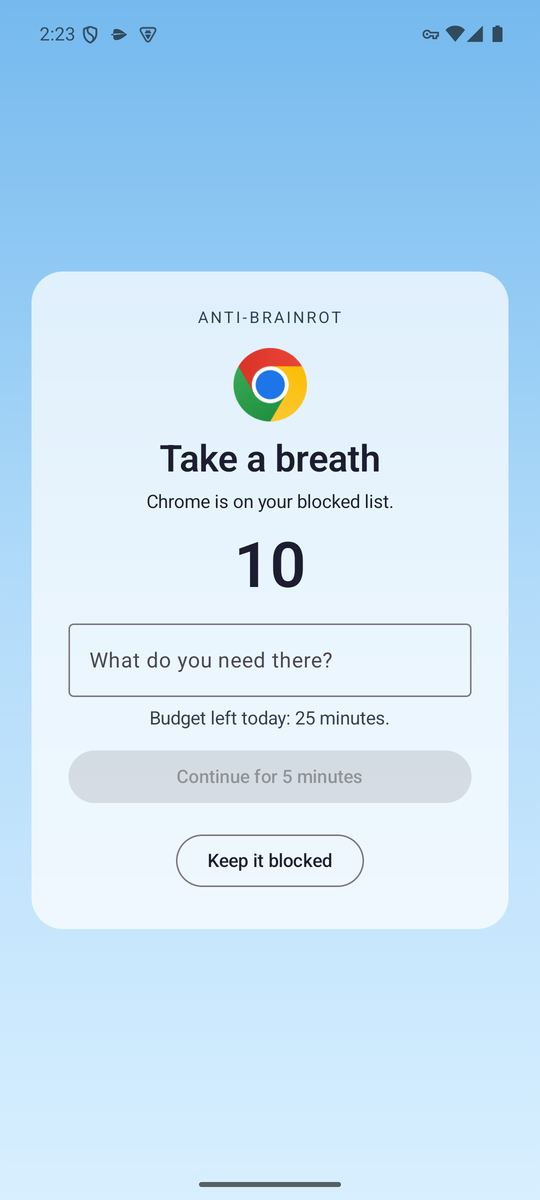
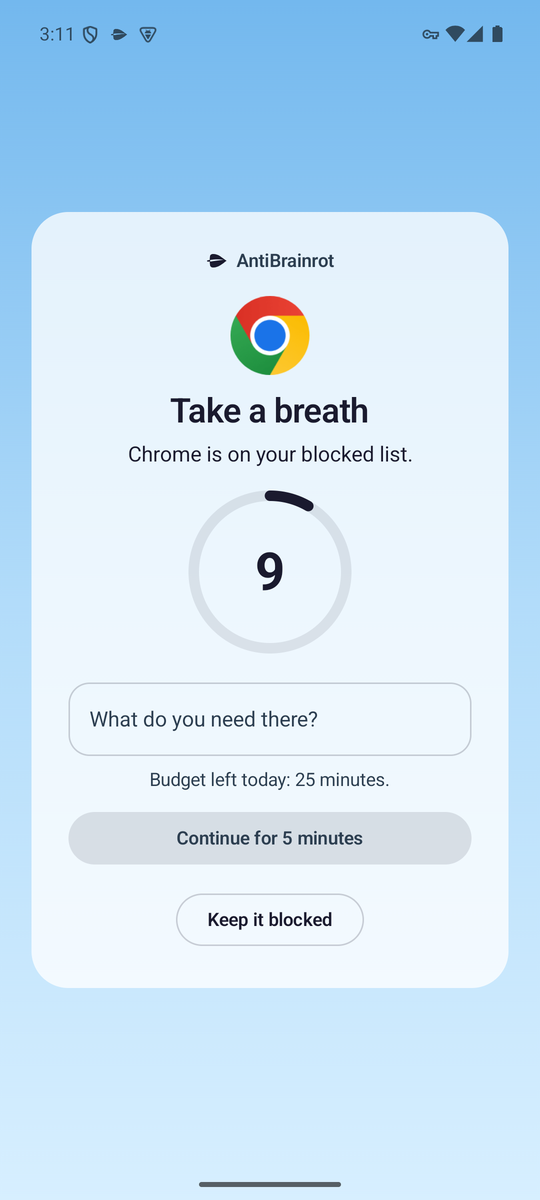
docs: Progress tab, AntiBrainrot name, 1.3.0 Android results, new screenshots

diff --git a/site/index.html b/site/index.html
@@ -109,7 +109,7 @@
         </li>
         <li>
           <h3>Android app</h3>
-          <p>The same rules on the phone: Shorts and Reels closed inside their apps, distracting apps behind a pause and a timed pass, adult and distracting sites filtered at the DNS level, locked hours and strict mode. An APK on every release.</p>
+          <p>The same rules on the phone: Shorts and Reels closed inside their apps, distracting apps behind a pause and a timed pass, adult and distracting sites filtered at the DNS level, locked hours, strict mode, and a Progress tab with ninety days of counters and charts. An APK on every release.</p>
         </li>
         <li>
           <h3>More YouTube options</h3>
@@ -203,19 +203,19 @@
 
     <section class="wrap shots" aria-labelledby="android-heading">
       <h2 id="android-heading">On the phone</h2>
-      <p>The Android app is the same idea with the phone's own tools. An accessibility service recognises the Shorts, Reels and Spotlight players by their view ids and presses Back, and puts a block screen over the apps on your list. A DNS-only VPN answers lookups for adult and distracting hosts with "no such name" and forwards everything else to the network's resolver, so no traffic leaves the phone through the app. The friction timer, locked hours, Lock for N hours and the loosen-only-while-off rule are the same as in the extension. Strict mode closes the Settings pages that could disable the app while the filter is on.</p>
+      <p>The Android app is the same idea with the phone's own tools. An accessibility service recognises the Shorts, Reels and Spotlight players by their view ids and presses Back, and puts a block screen over the apps on your list. A DNS-only VPN answers lookups for adult and distracting hosts with "no such name" and forwards everything else to the network's resolver, so no traffic leaves the phone through the app. The friction timer, locked hours, Lock for N hours and the loosen-only-while-off rule are the same as in the extension. Strict mode closes the Settings pages that could disable the app while the filter is on. The Progress tab keeps ninety days of counters: how long the filter was on, block screens, feeds closed and passes, as totals over 7, 30 or 90 days, bars per day, a streak, and the apps that needed the most block screens.</p>
       <div class="phones">
         <figure>
-          <img src="assets/screenshots/android-home.png" alt="The Home tab of the Android app: a card that reads Filter is on, Locked until 17:00, a Lock for row set to 2 hours, a disabled Locked button, and today's counters" width="540" height="1200" loading="lazy">
-          <figcaption>Home, during locked hours.</figcaption>
+          <img src="assets/screenshots/android-home.png" alt="The Home tab of the Android app: a blue card that reads Filter is on with a power ring, a Lock for row and a Turn off button, then today's three numbers and the locked hours card" width="540" height="1200" loading="lazy">
+          <figcaption>Home, with the filter on.</figcaption>
         </figure>
         <figure>
-          <img src="assets/screenshots/android-block.png" alt="The block screen over Chrome: Take a breath, Chrome is on your blocked list, a ten second countdown, an intention field, the budget left today and a Continue for 5 minutes button next to Keep it blocked" width="540" height="1200" loading="lazy">
+          <img src="assets/screenshots/android-progress.png" alt="The Progress tab: a 7, 30, 90 day selector, four tiles with the filter-on time, block screens, feeds closed and passes, and a bar chart of hours per day" width="540" height="1200" loading="lazy">
+          <figcaption>Progress over the last 7 days.</figcaption>
+        </figure>
+        <figure>
+          <img src="assets/screenshots/android-block.png" alt="The block screen over Chrome: Take a breath, Chrome is on your blocked list, a countdown ring, an intention field, the budget left today and a Continue for 5 minutes button next to Keep it blocked" width="540" height="1200" loading="lazy">
           <figcaption>A blocked app in pause mode.</figcaption>
-        </figure>
-        <figure>
-          <img src="assets/screenshots/android-apps.png" alt="The Apps tab: YouTube Shorts marked always on, switches for Instagram Reels, Facebook Reels and Snapchat Spotlight, and the blocked apps settings for mode, pause, pass length and daily budget" width="540" height="1200" loading="lazy">
-          <figcaption>Feeds and blocked apps.</figcaption>
         </figure>
       </div>
       <ul class="limits">

diff --git a/docs/ANDROID.md b/docs/ANDROID.md
@@ -1,12 +1,13 @@
-# Anti-Brainrot for Android
+# AntiBrainrot for Android
 
-The Android app brings the extension's rules to the phone: YouTube Shorts and
-the other short-video feeds are closed inside their apps, distracting apps sit
-behind a pause and a timed pass, adult and distracting sites are filtered at
-the DNS level, and the whole thing runs under the same friction timer, the
-same "tighten any time, loosen only while off" rule, the same locked hours and
-ad hoc locks. It is meant to replace AppBlock for one person's use and is not
-on Google Play; the APK is attached to every GitHub release.
+The Android app, called AntiBrainrot on the phone, brings the extension's
+rules to the phone: YouTube Shorts and the other short-video feeds are closed
+inside their apps, distracting apps sit behind a pause and a timed pass, adult
+and distracting sites are filtered at the DNS level, and the whole thing runs
+under the same friction timer, the same "tighten any time, loosen only while
+off" rule, the same locked hours and ad hoc locks. A Progress tab keeps ninety
+days of counters. It is meant to replace AppBlock for one person's use and is
+not on Google Play; the APK is attached to every GitHub release.
 
 ## What it does
 
@@ -19,12 +20,23 @@ on Google Play; the APK is attached to every GitHub release.
 | Friction timer | Turning the filter off runs the countdown on the Home screen; leaving the screen cancels it |
 | Locked hours, Lock for N hours | The service checks every 15 seconds and on every app switch; during a lock the switch is forced on and cannot be turned off |
 | Strict mode | While the filter is on, the Settings pages that could disable the app (its App info page, the accessibility page) are closed as they open |
-| Stats | Today's blocks, passes and closed feeds |
+| Progress | Ninety days of daily counters: time the filter was on while the service ran, block screens (per app too), feeds closed, passes and their minutes. Shown as totals over 7, 30 or 90 days, bar charts per day, a streak of days with the filter on for at least an hour, and the most blocked apps |
 
 What it does not do: educational-only mode (the YouTube app exposes no
 category), path-level website rules (a DNS filter sees hosts only), location
 or Wi-Fi conditions, per-app time metering (passes are charged up front
 instead), widgets.
+
+## Screens
+
+- Home: the filter card (state, unlock delay, Lock for N hours, the friction
+  timer with its ring), today's three numbers, locked hours, and the note
+  about what is always on.
+- Progress: the history, see the table above. Empty until the filter has run.
+- Apps: the short-video feed switches, blocked app settings, and the list of
+  installed apps.
+- Sites: the DNS filter, presets, own hosts and allow list.
+- More: the reason line, strict mode, theme, permissions, about.
 
 ## Compared with AppBlock
 
@@ -74,6 +86,8 @@ real app refuses to run. Release builds are signed in CI from the
 - Browsers with their own DNS over HTTPS setting bypass a local DNS filter,
   and so does Private DNS in the system settings; the Sites tab warns when
   Private DNS is on.
+- Filter-on time is counted by the accessibility service in 15 second ticks
+  and written once a minute, so it only covers time the service was running.
 - Strict mode leaves any Settings page that shows the app's name, which
   includes the accessibility service list itself while the filter is on.
   Manage other services while the filter is off.

diff --git a/docs/E2E.md b/docs/E2E.md
@@ -127,3 +127,32 @@ overflowed the card; they wrap now. The More tab could read "1 passes used".
 Not verifiable on this host: the real YouTube, Instagram, Facebook and
 Snapchat apps (no Play sign-in on the AVD); notification hiding from a real
 blocked app; Private DNS interaction on a physical network.
+
+## 2026-09-20, Android 15 emulator (Pixel AVD, API 35), version 1.3.0
+
+Same setup as the 1.2.0 run. The uiautomator dump used by `emu.sh tap`
+waits for an idle screen, so during the countdown (the ring animates every
+second) taps went by coordinates instead.
+
+| Check | Result |
+| --- | --- |
+| Name and header | Launcher label, header wordmark, block screen and Setup read AntiBrainrot; the status pill reads On, Off or Locked with the lock icon |
+| Home, filter on | Blue hero card with the power ring, Lock for row, Turn off; Locked state shows the lock in the ring and a disabled Locked button |
+| Home, filter off | Surface card, empty ring, delay picker, Turn on |
+| Turn off with a 5 minute delay | Ring counts down with the seconds inside it and 4:57 below; off after 300 s |
+| Keep it on | Countdown cancelled, filter still on 34 s later (30 s delay) |
+| Turn off with a 30 s delay | Off after the countdown; Turn on afterwards leaves the delay at 30 s |
+| Today strip | Reads 1m filter on, 2 blocks, 1 feed closed after one block screen and one closed Short; opens Progress |
+| Progress, empty | Nothing yet card, zero tiles, empty bars with weekday labels |
+| Progress, seeded 60 days (debug button) | 7 day tiles 24h 19m, 24, 31, 6 passes 30 min; 30 day tiles 166h 7m, 154, 155, 41 passes 205 min; bars grow in on range change; date labels every 7 days at 30 and every 30 at 90; stacked blocks and feeds chart with legend; streak 2 with best 28 and seven dots; most blocked apps with icons and bars |
+| History on disk | Today's record holds blocks, feedsClosed, focusSeconds (60 after one minute of the filter on) and byApp counts |
+| Chrome block | Card slides in, icon pops, ring fills from 9 to 0, Continue enabled at Ready |
+| Shorts stand-in | Closed within a second, feeds closed counter incremented |
+| Strict mode | App info page left within a second |
+| Setup | Green check marks for granted rows; Notifications row reads the real permission state (was always Open on a fresh install) |
+| Apps tab | App list loads after the settings cards with a progress bar, rows reorder with animation when one is checked |
+| Locked hours card on Home | Chips and time buttons expand when the switch is on; Sun chip on the second row |
+| Unit tests | 24 pass, including history recording, pruning, streaks, top apps and the Stats migration |
+
+Not verifiable on this host: the animations' smoothness at 60 Hz (the
+emulator renders with SwiftShader), dark theme on a real display.

diff --git a/README.md b/README.md
@@ -77,21 +77,22 @@ Website: https://danieltyukov.github.io/anti-brainrot/
 
 ## Android app
 
-The same rules on the phone: Shorts, Reels and Spotlight closed inside their
-apps, distracting apps behind a pause and a timed pass, adult and distracting
-sites filtered at the DNS level, the friction timer, locked hours, Lock for N
-hours, strict mode. Download `anti-brainrot-<version>.apk` from the
+The same rules on the phone, as AntiBrainrot: Shorts, Reels and Spotlight
+closed inside their apps, distracting apps behind a pause and a timed pass,
+adult and distracting sites filtered at the DNS level, the friction timer,
+locked hours, Lock for N hours, strict mode, and a Progress tab with ninety
+days of counters, charts and a streak. Download `anti-brainrot-<version>.apk` from the
 [latest release](https://github.com/danieltyukov/anti-brainrot/releases/latest),
 open it on the phone, allow installing from that source, then follow the
 Setup screen. Android 8 or newer. Details, permissions and limits in
 [docs/ANDROID.md](docs/ANDROID.md).
 
 <p align="center">
-  <img src="site/assets/screenshots/android-home.png" alt="The Home tab of the Android app during locked hours" width="240">
+  <img src="site/assets/screenshots/android-home.png" alt="The Home tab of the Android app with the filter on" width="240">
   &nbsp;
-  <img src="site/assets/screenshots/android-block.png" alt="The block screen over Chrome in pause mode" width="240">
+  <img src="site/assets/screenshots/android-progress.png" alt="The Progress tab with totals, a bar chart and a streak" width="240">
   &nbsp;
-  <img src="site/assets/screenshots/android-apps.png" alt="The Apps tab with feed switches and blocked app settings" width="240">
+  <img src="site/assets/screenshots/android-block.png" alt="The block screen over Chrome in pause mode with a countdown ring" width="240">
 </p>
 
 ## Install the extension

diff --git a/docs/PLAN.md b/docs/PLAN.md
@@ -368,3 +368,11 @@ friend-password unlock mode, allow-only mode during locked hours.
 - [x] Docs and site.
 
 Not done: educational-only mode in the YouTube app (no category data), location and Wi-Fi schedules, per-app time metering, allow-only mode.
+
+## Task 13: Android progress tracker and redesign (done 2026-09-20, v1.3.0)
+
+- [x] Day history in `LocalState` (ninety days: filter-on seconds, block screens per app, feeds closed, passes and minutes), every counter routed through `Passes.record`, old `Stats` migrated on decode, `Progress` aggregation with JVM tests.
+- [x] Filter-on time accumulated by the accessibility service ticker and flushed once a minute.
+- [x] Progress tab: 7, 30, 90 day ranges, summary tiles, bar charts (filter-on hours; block screens stacked with feeds closed), streak with the last seven days, most blocked apps. Debug builds can seed sample history.
+- [x] Name shown as AntiBrainrot; wordmark header with the leaf mark and a status pill; hero filter card that cross-fades between its off and on looks; countdown rings on Home and the block screen; staggered card entrances; animated tab changes, counters and permission states; typography and shapes. Locked hours moved to a Home card; the app list loads off the main thread.
+- [x] Emulator run of every screen and the regression set (docs/E2E.md), docs and site.

diff --git a/CHANGELOG.md b/CHANGELOG.md
@@ -5,6 +5,23 @@ Keep a Changelog and the project uses semantic versioning.
 
 ## [Unreleased]
 
+## [1.3.0] - 2026-09-20
+
+### Added
+- Android: a Progress tab. The app keeps ninety days of daily counters (time
+  the filter was on, block screens, feeds closed, passes and their minutes,
+  block screens per app) and shows them as totals, bar charts over 7, 30 or
+  90 days, a streak of days with the filter on for at least an hour, and the
+  most blocked apps. Home shows today's three numbers and opens Progress.
+
+### Changed
+- Android: the app is called AntiBrainrot. New header with the leaf mark and
+  a status pill, a hero card for the filter that cross-fades between its off
+  and on looks, a countdown ring for the friction timer and on the block
+  screen, staggered card entrances, animated tab changes and counters,
+  refined typography and corner radii. Locked hours moved from their own tab
+  to a card on Home. The app list loads off the main thread.
+
 ## [1.2.0] - 2026-09-20
 
 ### Added
